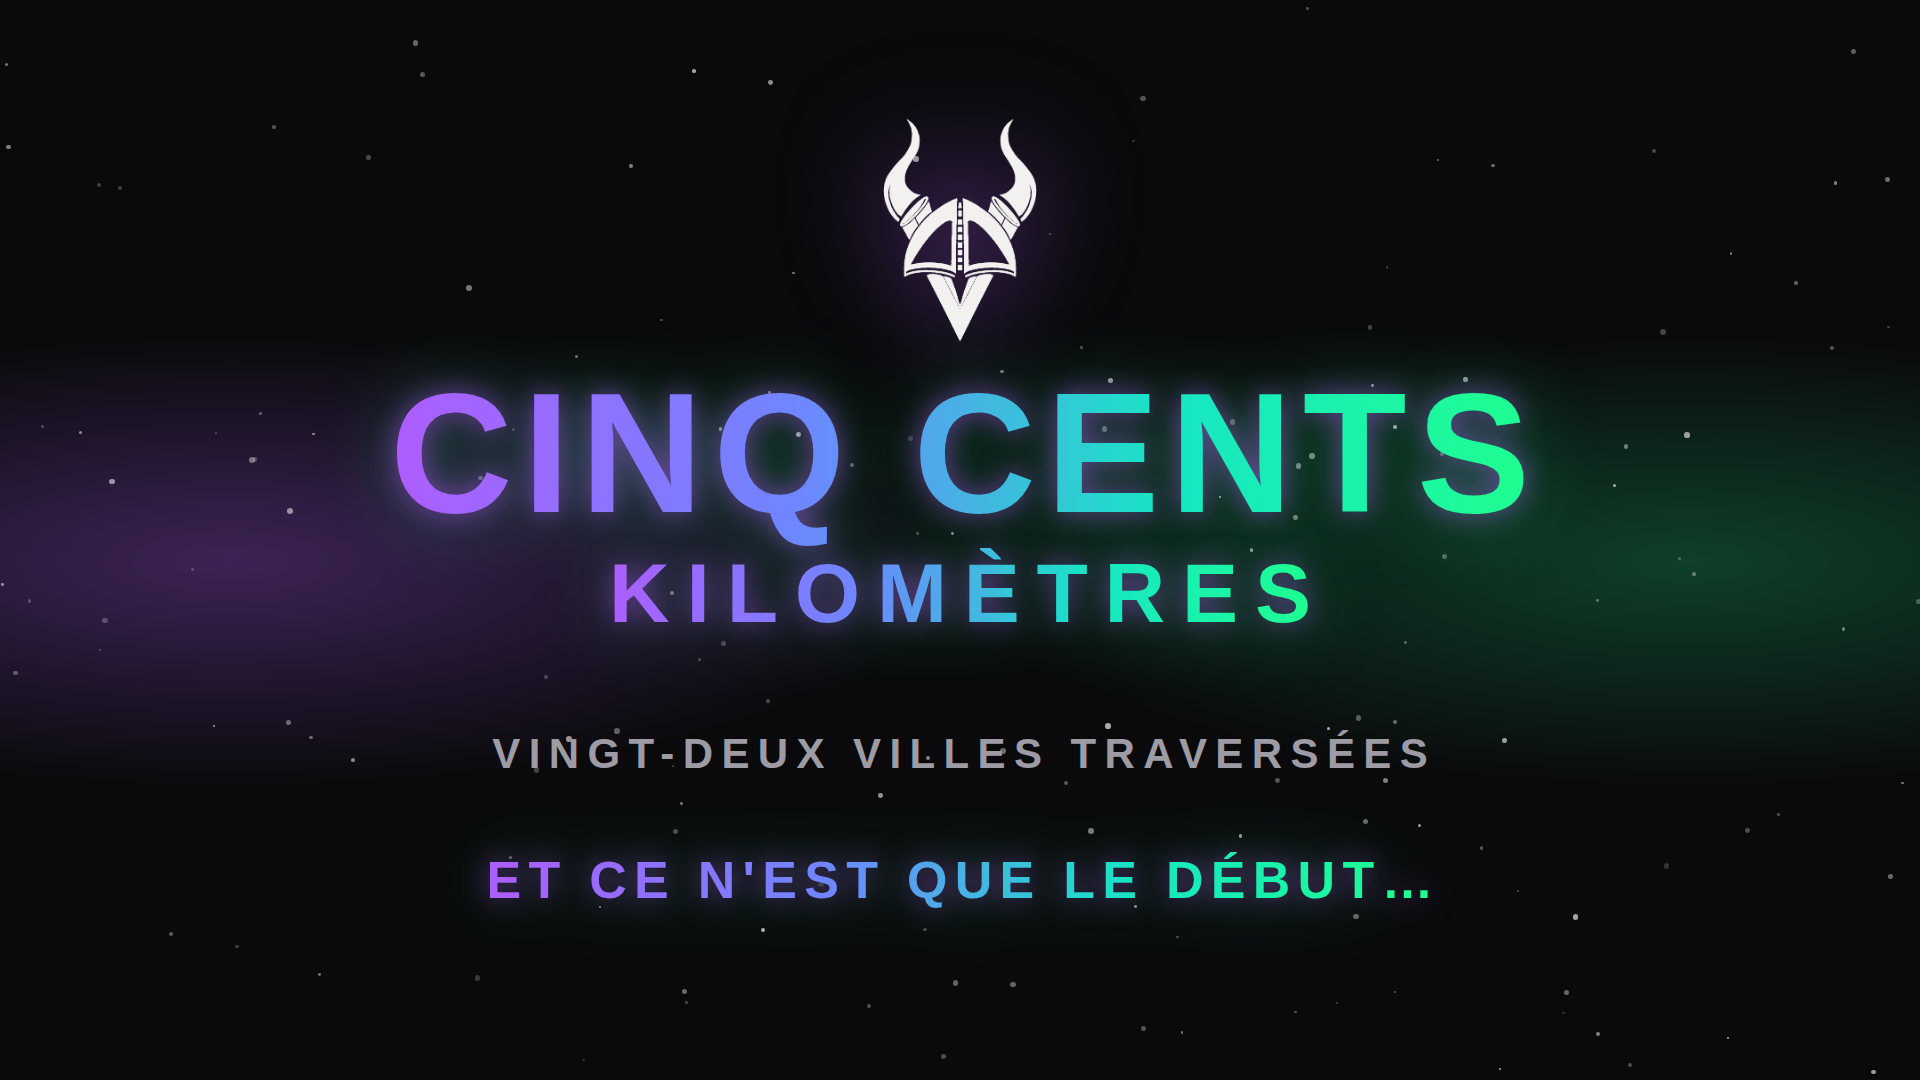
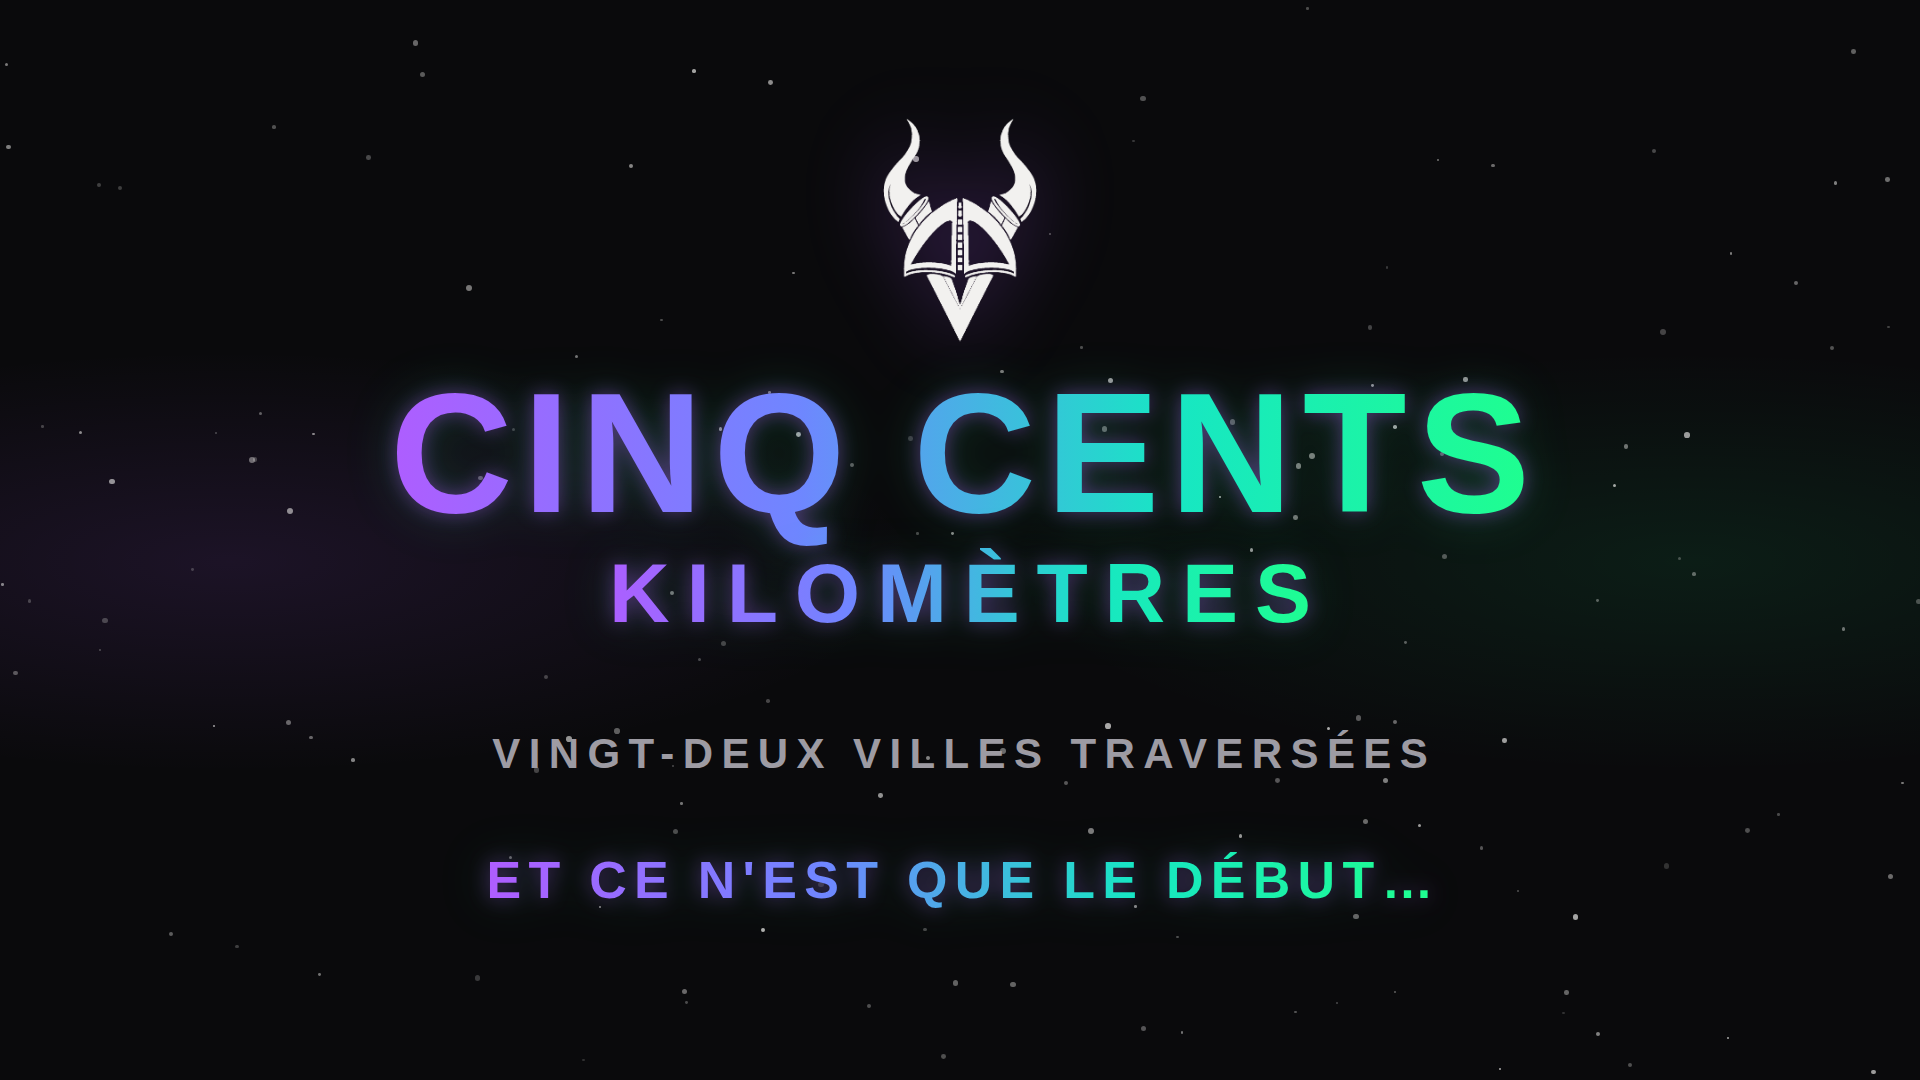
Page bilan : versions 4K, moins de brume de couleur
couverture.py accepte une echelle (2 = 4K).

Claude-Session: https://claude.ai/code/session_012rUB3CgGQKWMyg8f7W5ij6

Changed region(s): [[0.0, 0.3667, 0.4688, 0.6417], [0.5625, 0.3667, 1.0, 0.5806]]

diff --git a/bande-annonce/bilan.html b/bande-annonce/bilan.html
@@ -9,18 +9,18 @@
   #stars{ position:absolute; inset:0; }
   #stars span{ position:absolute; background:var(--ink); border-radius:50%; }
   #logo{ position:absolute; left:50%; top:560px; width:230px; transform:translate(-50%,-50%);
-         filter:drop-shadow(0 0 50px rgba(176,92,255,.6)); }
+         filter:drop-shadow(0 0 40px rgba(176,92,255,.35)); }
   .bloc{ position:absolute; left:0; right:0; text-align:center; font-weight:700;
          text-transform:uppercase; white-space:nowrap; }
   /* Une lueur colorée derrière les mots : le violet à gauche, le vert à droite. */
   #halo{ position:absolute; inset:0;
-         background:radial-gradient(ellipse 55% 30% at 12% 52%, rgba(176,92,255,.30), transparent 70%),
-                    radial-gradient(ellipse 55% 30% at 88% 52%, rgba(31,255,142,.22), transparent 70%); }
+         background:radial-gradient(ellipse 55% 30% at 12% 52%, rgba(176,92,255,.11), transparent 65%),
+                    radial-gradient(ellipse 55% 30% at 88% 52%, rgba(31,255,142,.08), transparent 65%); }
   /* Deux arrêts intermédiaires : un simple dégradé violet-vert passe par un bleu-gris terne. */
   /* La boîte épouse le texte : le dégradé va du violet au vert sur les mots eux-mêmes. */
   .degrade{ left:50%; right:auto; width:max-content; transform:translateX(-50%);
             background:linear-gradient(90deg,var(--violet) 0%,#6f86ff 36%,#17e6c4 68%,var(--green) 100%);
-            filter:drop-shadow(0 0 14px rgba(176,92,255,.55)) drop-shadow(0 0 38px rgba(31,255,142,.30));
+            filter:drop-shadow(0 0 10px rgba(176,92,255,.40)) drop-shadow(0 0 24px rgba(31,255,142,.18));
             -webkit-background-clip:text; background-clip:text;
             -webkit-text-fill-color:transparent; }
   #nb{ top:810px; font-size:128px; letter-spacing:.06em; padding-left:.06em; line-height:1.1; }

diff --git a/bande-annonce/couverture.py b/bande-annonce/couverture.py
@@ -5,6 +5,7 @@ Sur la grille d'un profil Instagram, un Reel est represente par sa couverture :
 c'est elle, et non la video, qui montre le numero d'episode.
 
     python3 couverture.py banniere.html "reel&episode=1" 7.6 couverture-episode-1.png
+    python3 couverture.py bilan.html "" 4.5 image-4k.png 2     # echelle 2 : 2160x3840 (4K)
 
 Le temps est celui de la video ou la composition est complete.
 """
@@ -13,12 +14,14 @@ from playwright.sync_api import sync_playwright
 
 ICI = os.path.dirname(os.path.abspath(__file__))
 page, fmt, t, sortie = sys.argv[1], sys.argv[2], float(sys.argv[3]), sys.argv[4]
+ECHELLE = float(sys.argv[5]) if len(sys.argv) > 5 else 1      # 2 : le double de pixels, mise en page identique
 taille = (1920, 1080) if fmt.startswith('paysage') else (1080, 1920)
 chromium = os.environ.get('CHROMIUM')
 
 with sync_playwright() as p:
     b = p.chromium.launch(**({'executable_path': chromium} if chromium else {}))
-    pg = b.new_page(viewport={'width': taille[0], 'height': taille[1]})
+    pg = b.new_page(viewport={'width': taille[0], 'height': taille[1]},
+                      device_scale_factor=ECHELLE)
     pg.goto('file://' + os.path.join(ICI, page) + '?' + fmt)
     pg.wait_for_timeout(900)
     pg.evaluate('t => window.__render(t)', t)

diff --git a/bande-annonce/README.md b/bande-annonce/README.md
@@ -22,7 +22,7 @@ calcul. Aucune source exterieure, donc rien a crediter ni a licencier.
 | `devercinge-etape-beziers.mp4`, `-argeliers.mp4`, `-la-redorte.mp4`, `-carcassonne.mp4` | les quatre etapes suivantes, en portrait (et leurs versions `-paysage.mp4`). |
 | `etapes.py` | produit d'un coup le son, le portrait et le paysage d'une ou de plusieurs etapes. |
 | `recap.html`, `son-recap.py`, `recap.py` | la bande-annonce recap : tous les lieux deja traverses, d'une traite (voir « La bande-annonce recap »). |
-| `bilan.html`, `image-bilan-500km.png`, `image-bilan-500km-paysage.png` | la page « cinq cents kilometres / vingt-deux villes traversees » seule, en image (portrait et paysage). Les chiffres `KM` et `VILLES` en haut de `bilan.html` sont ceux de `recap.html` : a mettre a jour ensemble. Images : `python3 couverture.py bilan.html "" 4 image.png` (ou `paysage`). |
+| `bilan.html`, `image-bilan-500km.png`, `image-bilan-500km-paysage.png` | la page « cinq cents kilometres / vingt-deux villes traversees » seule, en image (portrait et paysage). Les chiffres `KM` et `VILLES` en haut de `bilan.html` sont ceux de `recap.html` : a mettre a jour ensemble. Images : `python3 couverture.py bilan.html "" 4 image.png` (ou `paysage`). Ajouter `2` en dernier argument donne la 4K (2160x3840 ou 3840x2160) : `image-bilan-500km-4k.png` et `image-bilan-500km-paysage-4k.png`. |
 | `devercinge-recap.mp4`, `devercinge-recap-paysage.mp4` | la bande-annonce recap, en portrait et en paysage. |
 | `devercinge-banniere.mp4` | la banniere, 1920x1080, 12 s, sans son, faite pour boucler. |
 | `devercinge-banniere-reel.mp4` | la banniere pour Instagram, 1080x1920, 12 s, avec son, en boucle. |
